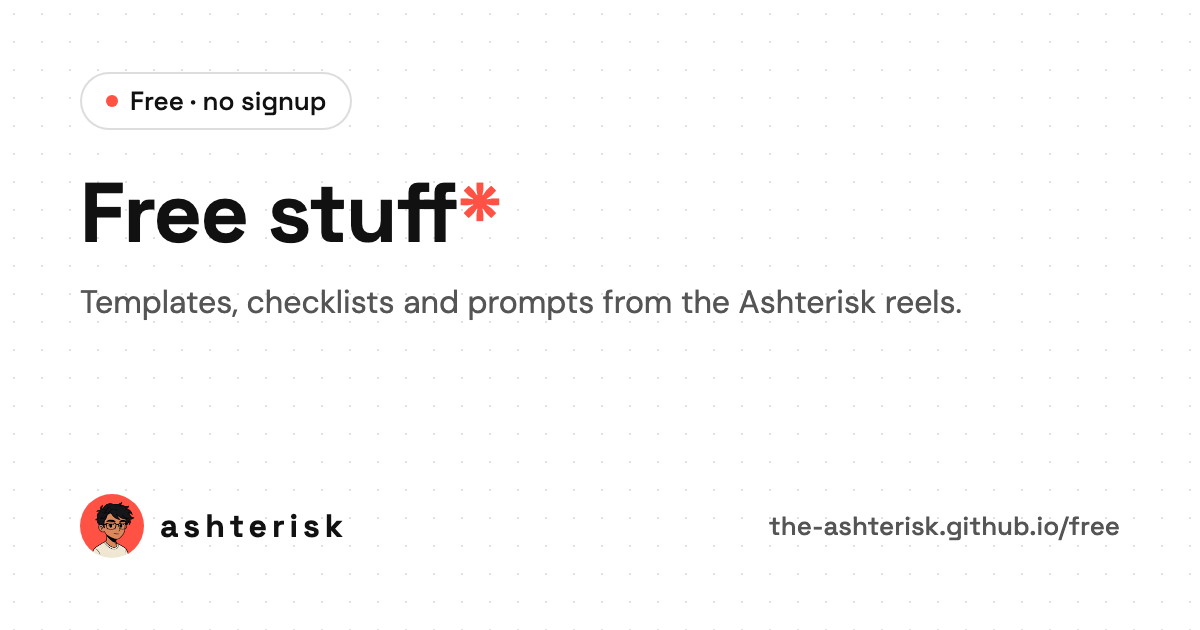
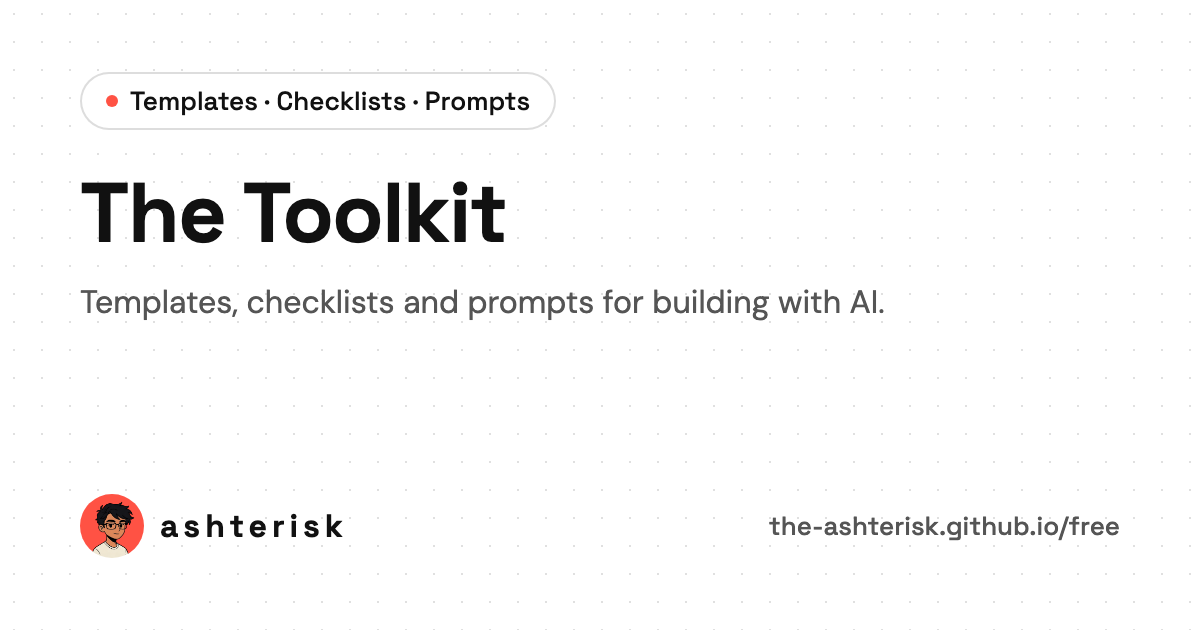
feat: rebrand /free as The Toolkit, Instagram-only download hint
- "Free stuff" → "The Toolkit" across the hub, page titles, link previews,
  nav and footer; back link reads "Back to the toolkit"; asterisks removed
- Download hint now shows only inside Instagram/Facebook in-app browsers,
  with wording that explains what to do
- Copy button: drop the fixed-width label that left extra right padding
- Regenerated og images

Changed region(s): [[0.0617, 0.2714, 0.4317, 0.3921], [0.0925, 0.0905, 0.4625, 0.2111], [0.5242, 0.4524, 0.8017, 0.5127]]

diff --git a/src/free/FreeLayout.tsx b/src/free/FreeLayout.tsx
@@ -20,7 +20,7 @@ function FreeHeader() {
             href="/free/"
             className={`grid min-h-[44px] place-items-center rounded-full px-3 font-body text-sm text-text-secondary transition-colors hover:text-text ${focusRing}`}
           >
-            Free
+            Toolkit
           </a>
           <StaticThemeToggle />
         </div>
@@ -37,7 +37,7 @@ function FreeFooter({ others }: { others: FreeResource[] }) {
         <h2 className="font-display text-2xl font-bold sm:text-3xl">
           Follow <span className="text-accent">@</span>the.ashterisk
         </h2>
-        <p className="mt-2 font-body text-text-secondary">New freebies drop with new reels.</p>
+        <p className="mt-2 font-body text-text-secondary">New tools land with new reels.</p>
         <div className="mt-6 flex flex-col gap-3 sm:flex-row">
           <a href={INSTAGRAM_PROFILE} target="_blank" rel="noreferrer" className={solidButton}>
             <SiInstagram size={18} aria-hidden /> Follow on Instagram
@@ -48,8 +48,8 @@ function FreeFooter({ others }: { others: FreeResource[] }) {
         </div>
 
         {others.length > 0 && (
-          <nav aria-label="More freebies" className="mt-12">
-            <h2 className="font-display text-sm font-bold uppercase tracking-widest">More freebies</h2>
+          <nav aria-label="More from the toolkit" className="mt-12">
+            <h2 className="font-display text-sm font-bold uppercase tracking-widest">More from the toolkit</h2>
             <ul className="mt-4 divide-y divide-line border-y border-line">
               {others.map((r) => (
                 <li key={r.slug}>

diff --git a/src/free/HubPage.tsx b/src/free/HubPage.tsx
@@ -16,7 +16,7 @@ function HubCard({ resource: r }: { resource: FreeResource }) {
       <p className="mt-2 flex-1 font-body text-text-secondary">{r.description}</p>
       <div className="mt-5 flex items-center justify-between gap-4">
         <span aria-hidden className="inline-flex items-center gap-1.5 font-display text-sm font-medium">
-          Get it <ArrowRight size={16} className="text-accent transition-transform motion-safe:group-hover:translate-x-0.5" />
+          Open <ArrowRight size={16} className="text-accent transition-transform motion-safe:group-hover:translate-x-0.5" />
         </span>
         <a
           href={r.reel.instagram ?? INSTAGRAM_PROFILE}
@@ -36,10 +36,10 @@ export function HubPage({ resources }: { resources: FreeResource[] }) {
     <FreeLayout>
       <div className="mx-auto max-w-3xl px-4 pb-16 pt-10 sm:px-5 sm:pt-16">
         <h1 className="font-display text-5xl font-bold leading-tight sm:text-6xl">
-          Free stuff<span className="text-accent">*</span>
+          The Toolkit
         </h1>
         <p className="mt-4 max-w-xl font-body text-lg leading-relaxed text-text-secondary">
-          Templates, checklists and prompts from my reels. No signup. Copy it, download it, use it.
+          Templates, checklists and prompts I use when building with AI. Copy them straight into your next project.
         </p>
         <ul className="mt-10 grid gap-4">
           {resources.map((r) => (

diff --git a/src/free/pages.tsx b/src/free/pages.tsx
@@ -81,7 +81,7 @@ function documentHtml(meta: Meta, assetTags: string, body: string, extraHead = '
 const render = (el: ReactElement) => renderToStaticMarkup(el)
 
 export const resourceMeta = (r: FreeResource): Meta => ({
-  title: `${r.title} — free from ashterisk`,
+  title: `${r.title} — The Ashterisk Toolkit`,
   description: r.description,
   path: pagePath(r),
   ogImage: ogImagePath(r.slug),
@@ -89,8 +89,8 @@ export const resourceMeta = (r: FreeResource): Meta => ({
 })
 
 export const hubMeta: Meta = {
-  title: 'Free stuff — ashterisk',
-  description: 'Templates, checklists and prompts from the Ashterisk reels. No signup: copy it, download it, use it.',
+  title: 'The Toolkit — ashterisk',
+  description: 'Templates, checklists and prompts for building with AI, from the Ashterisk reels.',
   path: '/free/',
   ogImage: ogImagePath('hub'),
 }
@@ -143,7 +143,7 @@ export function buildPages(assetTags: string): StaticFile[] {
     source: documentHtml(
       {
         title: 'Page not found — ashterisk',
-        description: "That page doesn't exist. Find the free templates, checklists and prompts here.",
+        description: "That page doesn't exist. Find the templates, checklists and prompts in the toolkit.",
         ogImage: ogImagePath('hub'),
         noindex: true,
       },

diff --git a/src/free/ResourcePage.tsx b/src/free/ResourcePage.tsx
@@ -22,7 +22,7 @@ export function ResourcePage({ resource: r, raw, html, others }: ResourcePagePro
           href="/free/"
           className={`inline-flex min-h-[44px] items-center gap-1.5 rounded font-body text-sm text-text-secondary transition-colors hover:text-text ${focusRing}`}
         >
-          <ArrowLeft size={16} aria-hidden /> All freebies
+          <ArrowLeft size={16} aria-hidden /> Back to the toolkit
         </a>
 
         <header className="mt-4">
@@ -39,8 +39,10 @@ export function ResourcePage({ resource: r, raw, html, others }: ResourcePagePro
           <a href={filePath(r)} download={r.fileName} className={`${solidButton} w-full`}>
             <Download size={18} aria-hidden /> Download {r.fileName}
           </a>
-          <p className="mt-3 text-center font-body text-sm text-text-secondary">
-            Download not working? Tap ⋯ → Open in browser.
+          {/* Shown by client.ts only inside Instagram's in-app browser, which often blocks downloads. */}
+          <p data-inapp-hint hidden className="mt-3 text-center font-body text-sm text-text-secondary">
+            You&apos;re in Instagram&apos;s browser, which can block downloads. Use Copy instead, or tap the ⋯ menu
+            (top right) and choose Open in browser.
           </p>
         </div>
 

diff --git a/src/free/pages.test.tsx b/src/free/pages.test.tsx
@@ -76,12 +76,15 @@ test('resource page follows the agreed order and links its file', () => {
     const download = main.querySelector('a[download]')!
     expect(download.getAttribute('href')).toBe(filePath(r))
     expect(download.getAttribute('download')).toBe(r.fileName)
-    expect(main.textContent).toContain('Download not working? Tap ⋯ → Open in browser.')
+    // The Instagram hint ships hidden; client.ts reveals it only in the in-app browser.
+    const hint = main.querySelector<HTMLElement>('[data-inapp-hint]')!
+    expect(hint.hidden).toBe(true)
+    expect(hint.textContent).toMatch(/Open in browser/)
     expect(main.querySelectorAll('#how-to ~ ol li, section[aria-labelledby=how-to] li')).toHaveLength(3)
     // Copy reads the embedded raw markdown, not the rendered HTML.
     expect(doc.querySelector<HTMLTextAreaElement>('[data-copy-source]')?.value).toBe(resourceContent(r.slug))
     // Footer lists the other freebies but not this one.
-    const more = doc.querySelector('nav[aria-label="More freebies"]')!
+    const more = doc.querySelector('nav[aria-label="More from the toolkit"]')!
     expect(more.querySelectorAll('a')).toHaveLength(freeResources.length - 1)
     expect(more.querySelector(`a[href="${pagePath(r)}"]`)).toBeNull()
   }

diff --git a/src/free/client.test.ts b/src/free/client.test.ts
@@ -2,7 +2,7 @@ import { renderToStaticMarkup } from 'react-dom/server'
 import { createElement } from 'react'
 import { FilePanel } from './FilePanel'
 import { StaticThemeToggle } from './ui'
-import { init } from './client'
+import { init, initInAppHint } from './client'
 
 const RAW = '# Hello\n\n- [ ] raw markdown'
 
@@ -105,4 +105,15 @@ test('theme toggle flips .dark and remembers it like the main site', () => {
   expect(localStorage.getItem('ashterisk-theme')).toBe('dark')
   ui.theme.click()
   expect(localStorage.getItem('ashterisk-theme')).toBe('light')
+})
+
+test('the download hint only shows inside Instagram and Facebook webviews', () => {
+  const hint = document.createElement('p')
+  hint.hidden = true
+  initInAppHint(hint, 'Mozilla/5.0 (iPhone) AppleWebKit Mobile/15E148 Instagram 309.0.0')
+  expect(hint.hidden).toBe(false)
+  initInAppHint(hint, 'Mozilla/5.0 (Linux; Android 14) Chrome/120 Mobile Safari/537.36')
+  expect(hint.hidden).toBe(true)
+  initInAppHint(hint, 'Mozilla/5.0 (iPhone) [FBAN/FBIOS;FBAV/450.0]')
+  expect(hint.hidden).toBe(false)
 })

diff --git a/src/free/NotFoundPage.tsx b/src/free/NotFoundPage.tsx
@@ -8,7 +8,7 @@ export function NotFoundPage({ resources }: { resources: FreeResource[] }) {
       <div className="mx-auto max-w-3xl px-4 pb-16 pt-12 sm:px-5 sm:pt-20">
         <p className="font-display text-sm font-bold uppercase tracking-widest text-text-secondary">404</p>
         <h1 className="mt-3 font-display text-4xl font-bold leading-tight sm:text-5xl">
-          This page doesn&apos;t exist<span className="text-accent">*</span>
+          This page doesn&apos;t exist
         </h1>
         <p className="mt-4 font-body text-lg text-text-secondary">
           The link might have a typo. Here&apos;s what you were probably looking for:
@@ -28,7 +28,7 @@ export function NotFoundPage({ resources }: { resources: FreeResource[] }) {
         </ul>
         <div className="mt-8 flex flex-col gap-3 sm:flex-row">
           <a href="/free/" className={solidButton}>
-            All freebies
+            Open the toolkit
           </a>
           <a href="/" className={outlineButton}>
             Home

diff --git a/src/free/client.ts b/src/free/client.ts
@@ -87,6 +87,13 @@ export function initFilePanel(panel: HTMLElement): void {
   sync()
 }
 
+const IN_APP_BROWSER = /Instagram|FBAN|FBAV/i
+
+/** Instagram's webview often blocks downloads; only there do we explain the way out. */
+export function initInAppHint(hint: HTMLElement, userAgent = navigator.userAgent): void {
+  hint.hidden = !IN_APP_BROWSER.test(userAgent)
+}
+
 export function initThemeToggle(button: HTMLElement): void {
   button.addEventListener('click', () => {
     const dark = document.documentElement.classList.toggle('dark')
@@ -101,6 +108,7 @@ export function initThemeToggle(button: HTMLElement): void {
 export function init(root: ParentNode = document): void {
   root.querySelectorAll<HTMLElement>('[data-file-panel]').forEach(initFilePanel)
   root.querySelectorAll<HTMLElement>('[data-theme-toggle]').forEach(initThemeToggle)
+  root.querySelectorAll<HTMLElement>('[data-inapp-hint]').forEach((hint) => initInAppHint(hint))
 }
 
 if (!import.meta.env.VITEST) init()

diff --git a/src/free/FilePanel.tsx b/src/free/FilePanel.tsx
@@ -25,10 +25,7 @@ export function FilePanel({ fileName, raw, html }: FilePanelProps) {
         >
           <Copy size={16} aria-hidden className="text-accent group-[.is-copied]:hidden" />
           <Check size={16} aria-hidden className="hidden text-accent group-[.is-copied]:block" />
-          {/* Fixed width so "Copied" doesn't shift the bar or truncate the filename. */}
-          <span data-copy-label className="inline-block min-w-[3.25rem] text-left">
-            Copy
-          </span>
+          <span data-copy-label>Copy</span>
         </button>
         <button
           type="button"

diff --git a/src/components/Nav.tsx b/src/components/Nav.tsx
@@ -7,11 +7,11 @@ import { sectionHref } from '../lib/sectionHref'
 import ash from '../assets/ash.png'
 
 // Projects/About live only on the home page; the footer (#connect) is on every page;
-// Free is its own static section at /free/.
+// The toolkit is its own static section at /free/.
 const anchors = [
   { label: 'Projects', href: () => sectionHref('projects') },
   { label: 'About', href: () => sectionHref('about') },
-  { label: 'Free', href: () => '/free/' },
+  { label: 'Toolkit', href: () => '/free/' },
   { label: 'Connect', href: () => '#connect' },
 ]
 

diff --git a/src/sections/Footer.test.tsx b/src/sections/Footer.test.tsx
@@ -58,8 +58,8 @@ test('copyright sits outside the legal navigation', () => {
   expect(legal).not.toContainElement(copyright)
 })
 
-test('explore column links to the free hub', () => {
+test('explore column links to the toolkit', () => {
   render(<Footer />)
   const explore = screen.getByRole('navigation', { name: 'Explore' })
-  expect(within(explore).getByRole('link', { name: 'Free stuff' })).toHaveAttribute('href', '/free/')
+  expect(within(explore).getByRole('link', { name: 'Toolkit' })).toHaveAttribute('href', '/free/')
 })

diff --git a/src/components/Nav.test.tsx b/src/components/Nav.test.tsx
@@ -54,11 +54,11 @@ test('header navigation is named for screen readers', () => {
   expect(screen.getByRole('navigation', { name: 'Main' })).toBeInTheDocument()
 })
 
-test('links to the free hub', () => {
+test('links to the toolkit', () => {
   render(
     <ThemeProvider>
       <Nav />
     </ThemeProvider>,
   )
-  expect(screen.getByRole('link', { name: 'Free' })).toHaveAttribute('href', '/free/')
+  expect(screen.getByRole('link', { name: 'Toolkit' })).toHaveAttribute('href', '/free/')
 })
